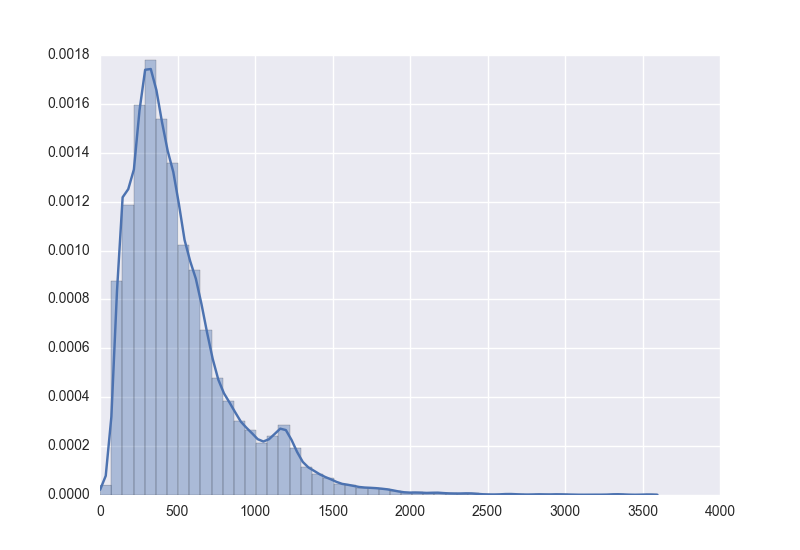
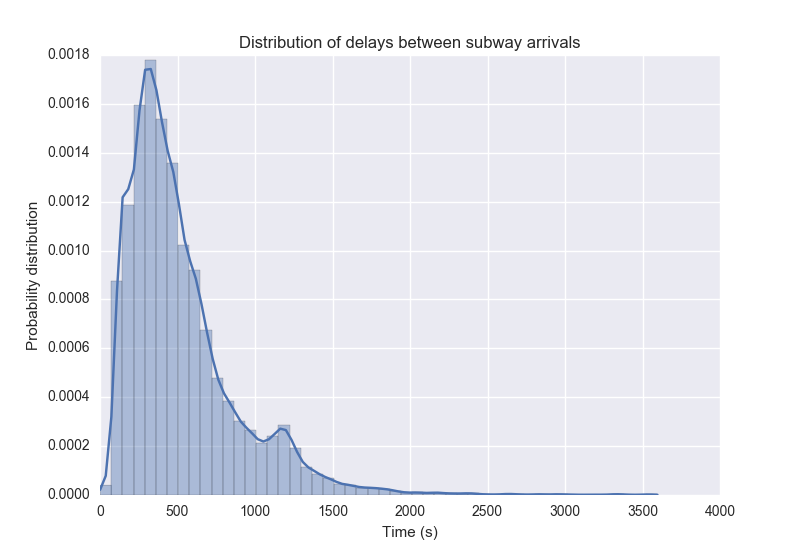
title & axis labels

Changed region(s): [[0.2812, 0.0618, 0.7188, 0.0927], [0.0312, 0.3709, 0.0625, 0.6491], [0.4688, 0.9582, 0.5625, 0.9891]]

diff --git a/sum.py b/sum.py
@@ -24,6 +24,9 @@ for key, values in stations.iteritems():
 
 print 'got', len(deltas), 'deltas'
 seaborn.distplot([d for d in deltas if d < 3600])
+pyplot.title('Distribution of delays between subway arrivals')
+pyplot.xlabel('Time (s)')
+pyplot.ylabel('Probability distribution')
 pyplot.savefig('time_between_arrivals.png')
 
 percs = [50, 75, 90, 95, 97, 98, 99]
@@ -39,7 +42,8 @@ pyplot.clf()
 for i, result in enumerate(results):
     pyplot.plot(offsets, result, label='%d percentile' % percs[i])
 pyplot.ylim([0, max(offsets)*3])
-pyplot.xlabel('Time you have waited for the subway')
-pyplot.ylabel('Additional time until subway arrives')
+pyplot.title('How long do you have to wait given that you already waited?')
+pyplot.xlabel('Time you have waited for the subway (s)')
+pyplot.ylabel('Additional time until subway arrives (s)')
 pyplot.legend()
 pyplot.savefig('time_until_arrival.png')
